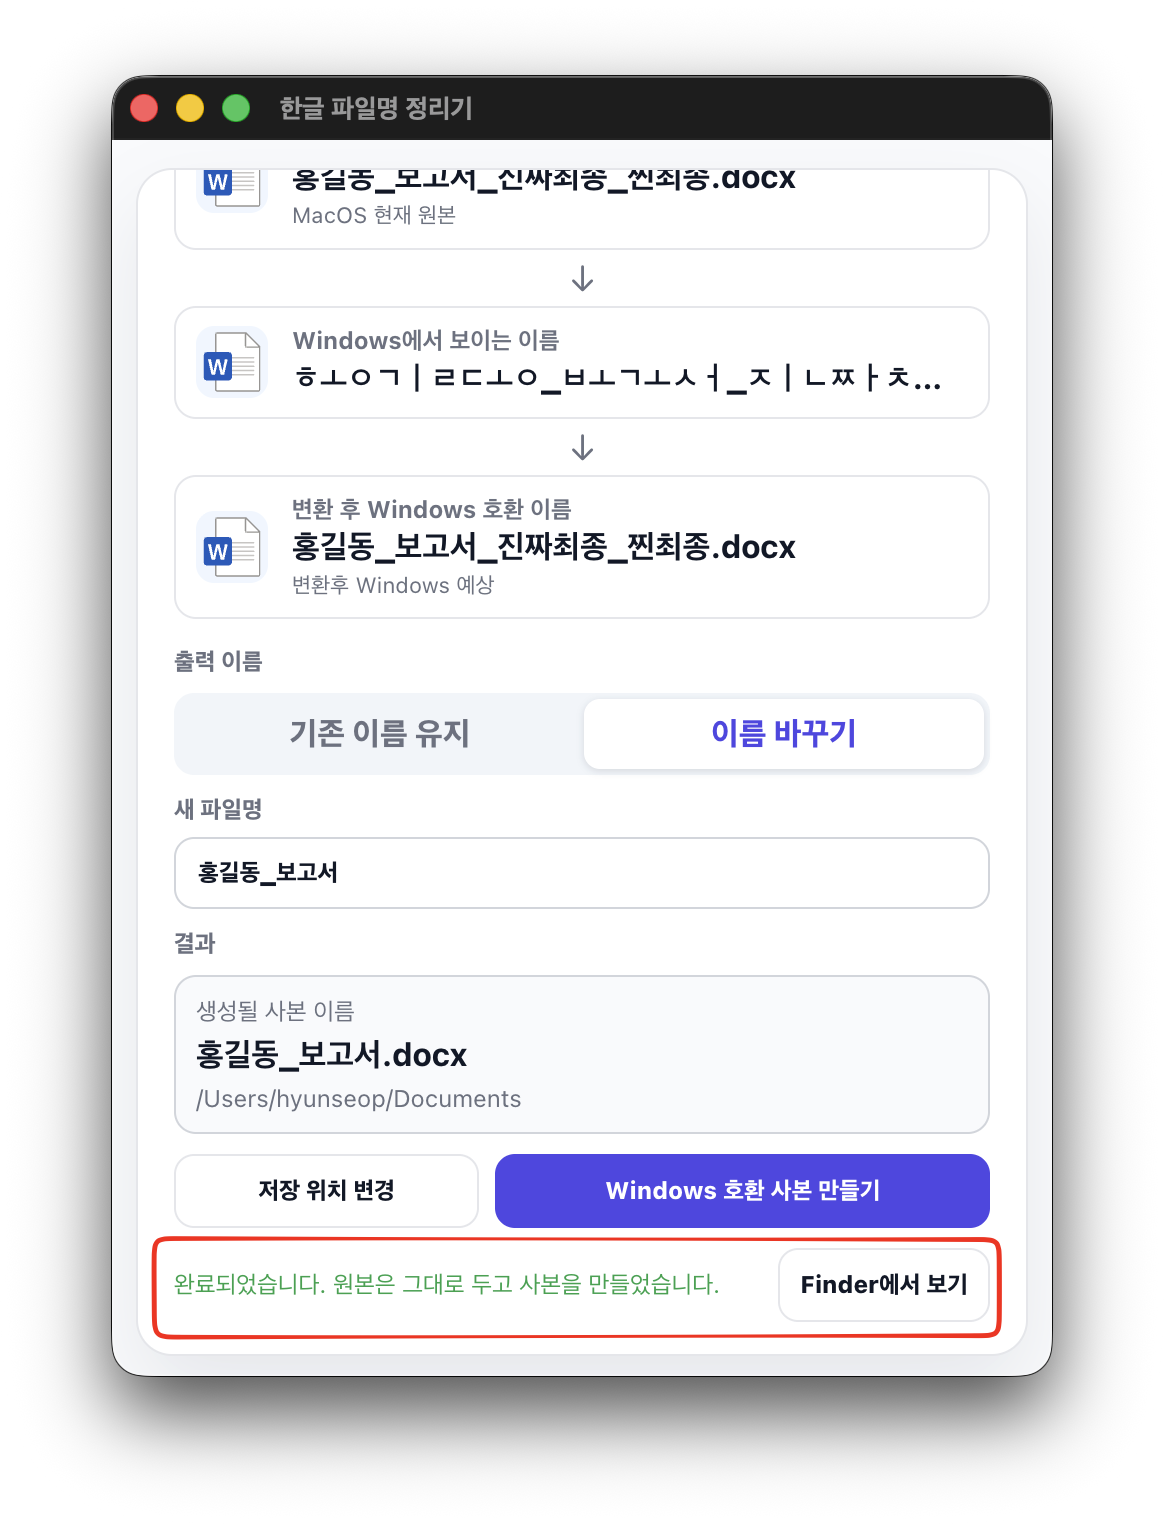
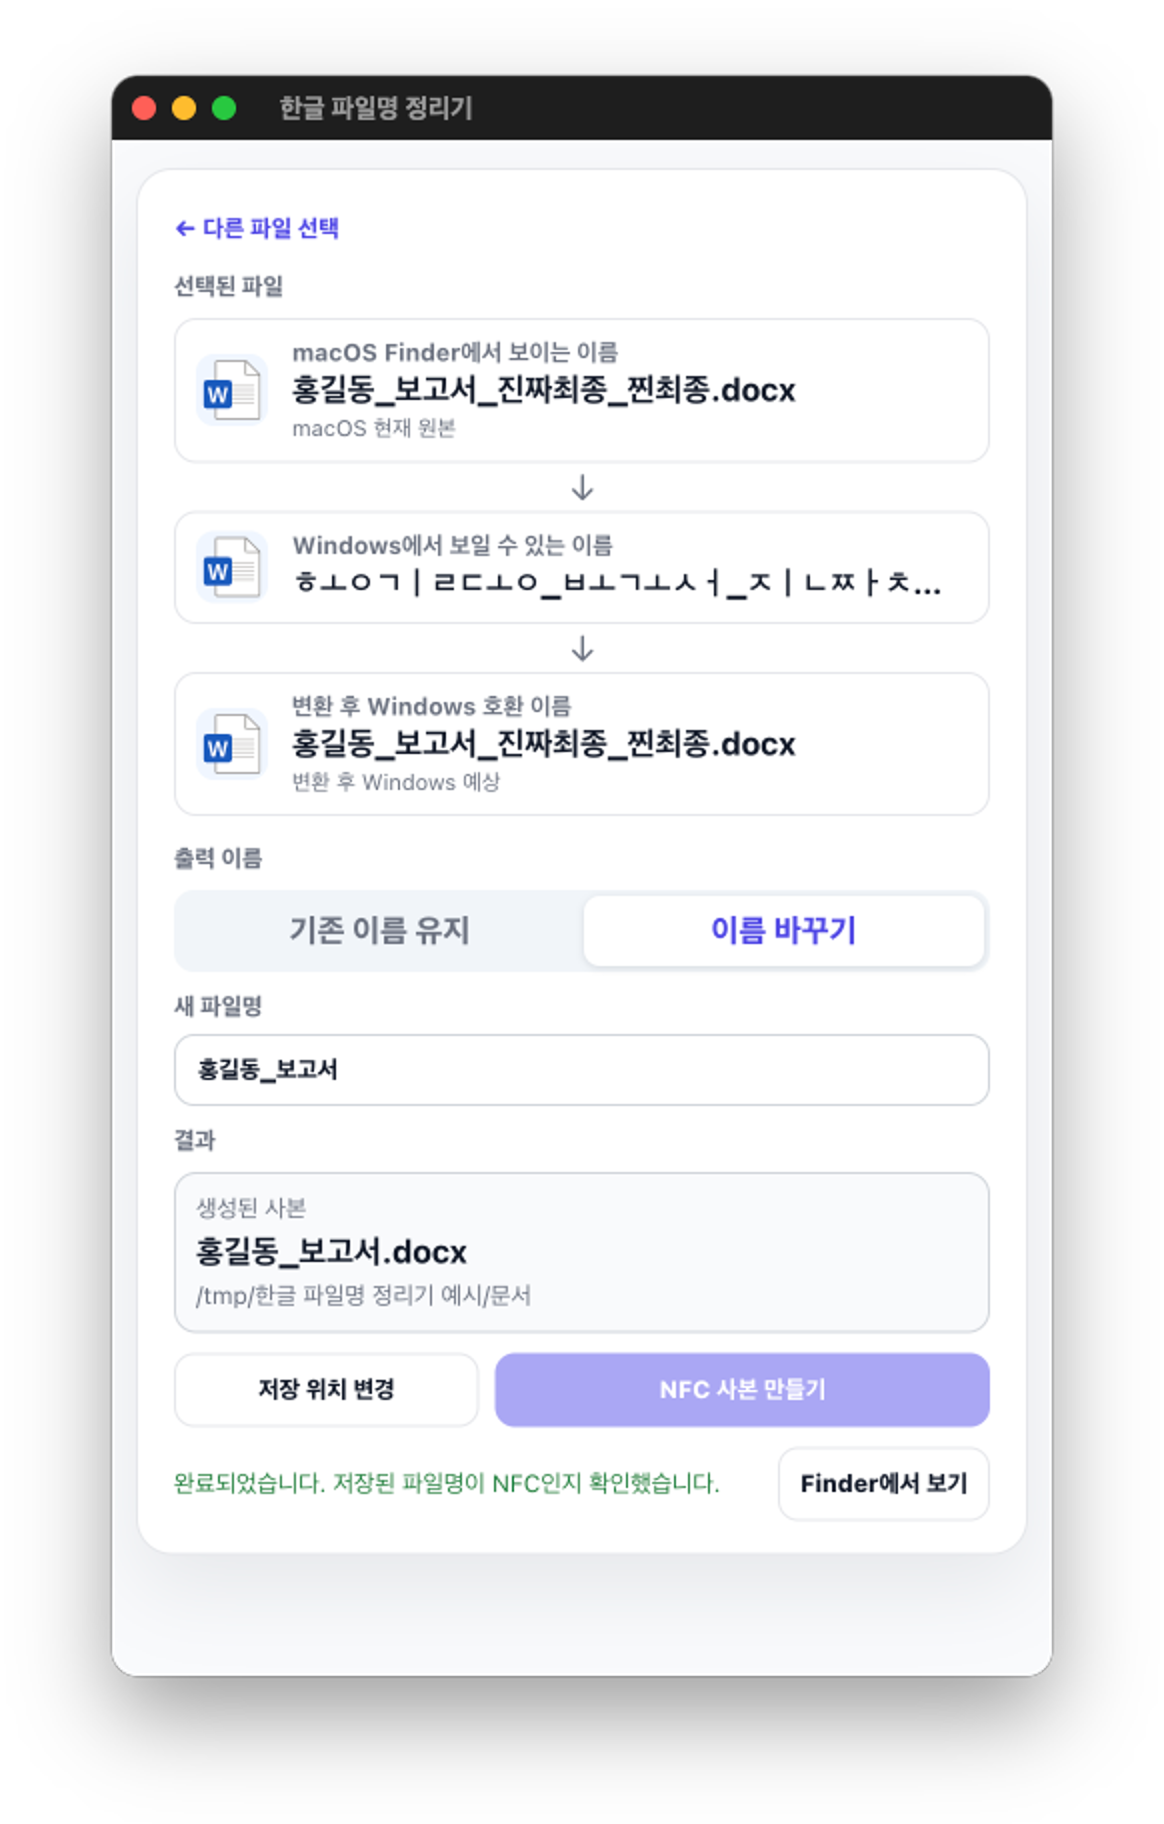
docs: update READMEs, screenshots and add CHANGELOG
- First-launch steps for macOS 15+ and 12–14, system requirements (Apple Silicon, macOS 12+)
- Explain the " (1)" suffix next to the original and the external-drive limitation
- Naming rules, project structure and commands match the code; link the latest release
- Retake all detail screenshots from the current UI
- CHANGELOG.md with the unreleased changes and v1.0.0

diff --git a/README.en.md b/README.en.md
@@ -1,6 +1,6 @@
 # Hangeul Filename Fixer
 
-> [NOTICE/WARNING]
+> [!WARNING]
 > This is a personal tool under validation. It normalizes Korean filenames on macOS to NFC, but it cannot guarantee correct display across every mail or upload flow. See [Email Attachment Notes](#email-attachment-notes).
 
 This is the short English README. The Korean README is available here: [README.md](README.md)
@@ -28,23 +28,31 @@ The original file is never modified.
 
 ## Download and First Launch
 
-**[Download macOS DMG](https://github.com/hyunseop827/hangeul-filename-fixer/releases/download/v1.0.0/hangeul-filename-fixer-1.0.0.dmg)**
+**[Download the latest release (GitHub Releases)](https://github.com/hyunseop827/hangeul-filename-fixer/releases/latest)**
 
-The DMG file is distributed through GitHub Releases, not committed directly to the repository.  
-The source code is in this repository, and the installer is available from the link above.
+Download `hangeul-filename-fixer-<version>.dmg` from the release page.
+The DMG file is distributed through GitHub Releases, not committed directly to the repository.
 
-This is a personal ad-hoc signed build and is not notarized by Apple.  
+**Requirements:** an Apple Silicon (M1 or later) Mac with macOS 12 Monterey or later. Intel Macs are not supported yet. The app UI is in Korean.
+
+This is a personal ad-hoc signed build and is not notarized by Apple.
 Because of that, macOS may show a warning saying Apple cannot verify that the app is free from malware.
 This warning means the app has not been notarized by Apple. It does not mean Apple found malware.
 
-Easiest way to open it:
+### Opening it the first time
 
-In the DMG, the app appears as `한글 파일명 정리기.app`.
+In the DMG, the app appears as `한글 파일명 정리기.app`. Open the DMG and move the app to Applications first.
 
-1. Open the DMG and move the app to Applications.
-2. Open the Applications folder in Finder.
-3. Control-click or right-click `한글 파일명 정리기`.
-4. Choose `Open`.
+**macOS 15 Sequoia and later**
+
+1. Open the app once. When the warning appears, click `Done`.
+2. Go to `System Settings` → `Privacy & Security`, scroll down to `Security`, and click `Open Anyway`.
+3. Confirm with your password or Touch ID. The app opens normally from then on.
+
+**macOS 12 Monterey to 14 Sonoma**
+
+Control-click (right-click) the app in Finder, choose `Open`, then click `Open` again in the warning.
+(Button and settings names differ slightly between versions. On macOS 12 you can also allow it under `System Preferences` → `Security & Privacy` → `General`.)
 
 If it still does not open, paste this into Terminal:
 
@@ -62,6 +70,8 @@ This only removes the macOS quarantine flag from the downloaded app. Run it only
 3. Preview how it may appear on Windows.
 4. Keep the Korean name as NFC or enter a custom name.
 5. Create a single NFC-normalized copy and attach that copy when sharing the file.
+
+If you keep the original name and it is already NFC and Windows-safe, the app tells you that no copy is needed.
 
 ## Email Attachment Notes
 
@@ -95,7 +105,7 @@ If you need to keep Korean filenames in Gmail, attach the file from **Safari** i
   </tr>
   <tr>
     <td width="50%">Keep the Korean name and normalize it to NFC.</td>
-    <td width="50%">Enter a new base name. The original extension is kept.</td>
+    <td width="50%">Enter a new base name. The original extension is kept; typing it as well does not add it twice.</td>
   </tr>
   <tr>
     <td width="50%" valign="top">
@@ -116,7 +126,28 @@ If you need to keep Korean filenames in Gmail, attach the file from **Safari** i
 When sharing the file, attach the generated copy.
 The app reads the created file back and verifies that the stored filename is NFC-normalized.
 
+> [!NOTE]
+> **Keeping the original name and saving next to the original adds ` (1)` before the extension** (e.g. `report (1).hwp`). macOS treats the decomposed (NFD) and NFC spellings as the same name, so a second file with that name cannot sit next to the original. To keep the exact name, choose another folder (for example the Desktop) with `저장 위치 변경`. The app shows this hint as well.
+
+> [!IMPORTANT]
+> **Copies with Korean names cannot be saved to USB sticks or external drives formatted exFAT, FAT32 or Mac OS Extended.** macOS reports filenames on those drives in decomposed form, so the app removes the copy and explains why (ASCII-only names are saved normally). Create the copy on the internal disk, then attach or upload it.
+
 When using Gmail with Korean filenames, attach the file from Safari rather than Chrome.
+
+### Result
+
+<p align="left">
+  <img src="images/file-name-fixed.png" alt="Copy created screen" width="620" />
+</p>
+
+## Naming Rules
+
+- Normalize the name, including the extension, to NFC.
+- Replace characters Windows does not allow (`< > : " / \ | ? *`) and control characters with `_`.
+- Trim leading and trailing spaces and a trailing dot.
+- Prefix Windows reserved names such as `CON`, `NUL`, `COM1` or `LPT1` with `_`, even with an extension (`con.tar.gz`).
+- Add ` (1)`, ` (2)` when the name is taken. Existing files are never overwritten.
+- Keep the download quarantine flag on the copy, so Gatekeeper still checks downloaded apps and scripts.
 
 ## Supported Files
 
@@ -131,21 +162,31 @@ Most regular files are supported:
 - IPYNB
 - Files without extensions
 
-Folders, `.app`, `.pages`, `.key`, and macOS package-style files are not supported yet.
+Folders, `.app` bundles, and documents saved as macOS packages (for example package-format `.pages` or `.key`) are not supported yet.
 
 ## Development
 
+Requirements: macOS, Node.js 22.12 or later, npm.
+
 | Command | Purpose | Description |
 | --- | --- | --- |
-| `npm install` | Install dependencies | Install required npm packages. |
-| `npm run dev:electron` | Run the app for development | Starts Vite and Electron together. React UI changes update almost live. |
-| `npm run build` | Check production build | Builds the React renderer and Electron main process into `dist/` and `dist-electron/`. |
-| `npm run dist` | Create DMG | Runs `build` first, then creates the macOS DMG with Electron Builder. |
+| `npm ci` | Install dependencies | Install the exact versions from `package-lock.json`. |
+| `npm run dev:electron` | Run the app for development | Starts Vite and Electron together. Changes under `src/` update live; restart after changing `electron/`. |
+| `npm test` | Run tests | Unit tests for the naming rules and the copy and verification logic. |
+| `npm run typecheck` | Type-check | Checks the renderer, Electron and test code. |
+| `npm run build` | Check production build | Type-checks, then builds the React renderer and Electron main process into `dist/` and `dist-electron/`. |
+| `npm run dist` | Create DMG | Runs `build` first, then creates `release/hangeul-filename-fixer-<version>.dmg` for the build machine's architecture. |
+
+Contributor and AI-agent notes are in [AGENTS.md](AGENTS.md) (Korean). Architecture notes are in [docs/ARCHITECTURE.md](docs/ARCHITECTURE.md) (Korean).
+
+## Built with AI
+
+This project was built with the help of AI coding tools. A person defined the problem, tested real mail and upload flows, and made the final decisions; AI helped with implementation, code review, tests, and documentation. See [docs/AI_DEVELOPMENT.md](docs/AI_DEVELOPMENT.md) (Korean).
 
 ## Installation Notes
 
-The current DMG is a personal ad-hoc signed build.  
-Because it is not notarized by Apple, macOS Gatekeeper may show a warning on first launch.  
+The current DMG is a personal ad-hoc signed build.
+Because it is not notarized by Apple, macOS Gatekeeper may show a warning on first launch.
 To remove this warning completely, the app needs to be signed with an Apple Developer ID and notarized by Apple.
 
 ## License
@@ -157,3 +198,7 @@ Custom non-commercial license.
 - Commercial use is strictly prohibited.
 
 See [LICENSE](LICENSE).
+
+## Version History
+
+See [CHANGELOG.md](CHANGELOG.md) (Korean).

diff --git a/CHANGELOG.md b/CHANGELOG.md
@@ -1,0 +1,72 @@
+# 변경 내역
+
+이 프로젝트의 주요 변경 사항을 기록합니다. 형식은 [Keep a Changelog](https://keepachangelog.com/ko/1.1.0/)를 따릅니다.
+
+## [Unreleased]
+
+2026-10-01 코드 리뷰와 정리 작업 결과입니다. 자세한 근거는 [docs/CODE_REVIEW_2026-10-01.md](docs/CODE_REVIEW_2026-10-01.md)에 있습니다.
+
+### 수정
+
+- 확장자에 남아 있던 Windows 금지 문자와 끝 마침표·공백도 정리합니다. (`file.` → `file`, `a.b|c` → `a.b_c`)
+- `con.tar.gz`, `nul .tar.gz`, `COM¹`처럼 확장자가 여러 개 붙거나 위첨자가 들어간 Windows 예약 이름도 `_`를 붙입니다.
+- 이름 바꾸기에서 확장자까지 입력하면 확장자가 두 번 붙던 문제를 고쳤습니다. (`보고서.hwp` 입력 → `보고서.hwp`)
+- 이름 바꾸기에서 마침표로 시작하는 이름이 Finder에서 숨김 파일이 되던 문제를 고쳤습니다.
+- 드래그한 파일의 경로가 항상 분리형(NFD)으로 들어와서, 이미 NFC인 파일도 깨진 이름으로 표시되던 문제를 고쳤습니다. 이제 디스크에 저장된 실제 이름을 읽어 표시합니다.
+- 외장 드라이브(exFAT 등)에서 NFC 확인에 실패했을 때 사본과 `._` 파일이 남던 문제를 고쳤습니다.
+- 모든 오류가 "NFC로 보존하지 못했습니다"로 표시되던 문제를 고쳤습니다. 권한, 저장 공간, 파일 없음, 이름 길이 등 원인별 안내를 보여줍니다.
+- 변환 중 버튼을 다시 누르거나 다른 파일로 바꾸면 사본이 중복 생성되거나 다른 파일 결과가 표시되던 문제를 고쳤습니다.
+- 변환 후 결과 칸이 이미 만든 이름을 계속 "생성될 사본 이름"으로 보여주던 문제를 고쳤습니다.
+- 폴더나 앱을 넣으면 "저장 위치를 확인하는 중입니다."에서 멈춰 보이던 문제를 고쳤습니다.
+- 파일명에 `\`가 들어간 파일의 저장 위치를 잘못 계산하던 문제를 고쳤습니다.
+- 기본 창 크기에서 `NFC 사본 만들기` 버튼과 결과 메시지가 화면 아래로 잘리던 문제를 고쳤습니다.
+- 드롭 영역 위에서 마우스를 움직이면 강조 표시가 꺼지던 문제를 고쳤습니다.
+
+### 보안
+
+- 사본이 원본의 인터넷 다운로드 보안 표시(`com.apple.quarantine`)를 잃어 Gatekeeper 검사를 건너뛰던 문제를 고쳤습니다.
+- 같은 이름의 파일을 절대 덮어쓰지 않도록 복사할 때 `COPYFILE_EXCL`을 씁니다.
+- 화면 프로세스에 Chromium 샌드박스를 켰습니다.
+- 앱 창이 다른 페이지로 이동하거나 새 창을 여는 것을 막고, Content-Security-Policy를 추가했습니다.
+- 배포된 앱이 개발용 환경 변수 `ELECTRON_RENDERER_URL`을 무시합니다.
+- Electron fuses로 `ELECTRON_RUN_AS_NODE`, `NODE_OPTIONS`, `--inspect`를 끄고 asar 무결성 검사를 켰습니다.
+- `npm audit`의 취약점 16건(critical 3, high 11, moderate 1, low 1) 중 15건을 해결했습니다. Electron은 42.4.0 → 42.11.10. 남은 1건(esbuild, low)은 Windows 개발 서버에만 해당합니다.
+
+### 변경
+
+- 결과 칸에 안내를 추가했습니다: 원본과 같은 폴더라 ` (1)`이 붙는 경우, 이미 Windows 호환 이름인 경우.
+- 오류 문구 색 대비를 높이고, 긴 이름은 마우스를 올리면 전체가 보이게 했습니다.
+- 카드 문구를 다듬었습니다. (`MacOS` → `macOS`, `변환후` → `변환 후`, `Windows에서 보일 수 있는 이름`)
+- 파일·폴더 선택 창에 안내 문구를 넣고, 저장 위치 선택은 현재 폴더에서 시작합니다.
+- 배포 앱 메뉴에서 새로고침과 개발자 도구를 뺐습니다. 입력 칸에 잘라내기/복사/붙여넣기 메뉴를 추가했습니다.
+- 앱 메뉴 이름이 `hangeul-filename-fixer` 대신 `Hangeul Filename Fixer`(한국어 환경에서는 `한글 파일명 정리기`)로 보입니다.
+- 쓰지 않는 Chromium 언어 팩을 빼서 DMG가 약 11MB 작아졌습니다. (119.8MB → 108.8MB)
+
+### 제거
+
+- 개발 의존성 `concurrently`, `wait-on`을 제거하고 `scripts/dev.mjs`로 대체했습니다. (설치 패키지 19개 감소)
+- Electron 밖에서는 동작하지 않던 `npm run dev` 스크립트를 제거했습니다.
+- 화면에서 쓰지 않던 여러 파일 처리 코드와, 화면·Electron에 중복돼 있던 파일명 규칙 코드를 정리했습니다.
+
+### 개발
+
+- `npm test`(node:test 단위 테스트 23개)를 추가했습니다.
+- `npm run build`가 화면 코드 타입 검사도 함께 합니다. TypeScript 엄격 옵션을 추가했습니다.
+- `npm run dist`가 GitHub에 자동으로 배포하지 않도록 `--publish never`를 붙였습니다.
+- README 스크린샷을 현재 화면으로 다시 만들었습니다.
+- `AGENTS.md`, `CLAUDE.md`, `docs/` 문서를 추가했습니다.
+
+## [1.0.0] - 2026-06-17
+
+첫 배포입니다.
+
+- 파일 하나를 드래그하거나 선택해 NFC 이름의 사본을 만듭니다. 원본은 수정하지 않습니다.
+- macOS·Windows에서 보이는 이름과 변환 후 이름을 미리 보여줍니다.
+- 기존 이름 유지 / 이름 바꾸기를 지원합니다.
+- Windows 금지 문자, 끝 공백·마침표, 예약 이름을 정리하고 같은 이름이 있으면 `(1)`을 붙입니다.
+- 사본을 만든 뒤 실제 저장된 파일명이 NFC인지 다시 확인합니다.
+
+참고: Git 태그 `v1.0.0`은 커밋 `afd5876`을 가리키지만, GitHub 릴리스의 DMG는 다음 커밋 `5044478`(사본 생성 후 NFC 확인 추가)이 올라간 직후에 업로드됐습니다.
+
+[Unreleased]: https://github.com/hyunseop827/hangeul-filename-fixer/compare/v1.0.0...HEAD
+[1.0.0]: https://github.com/hyunseop827/hangeul-filename-fixer/releases/tag/v1.0.0
